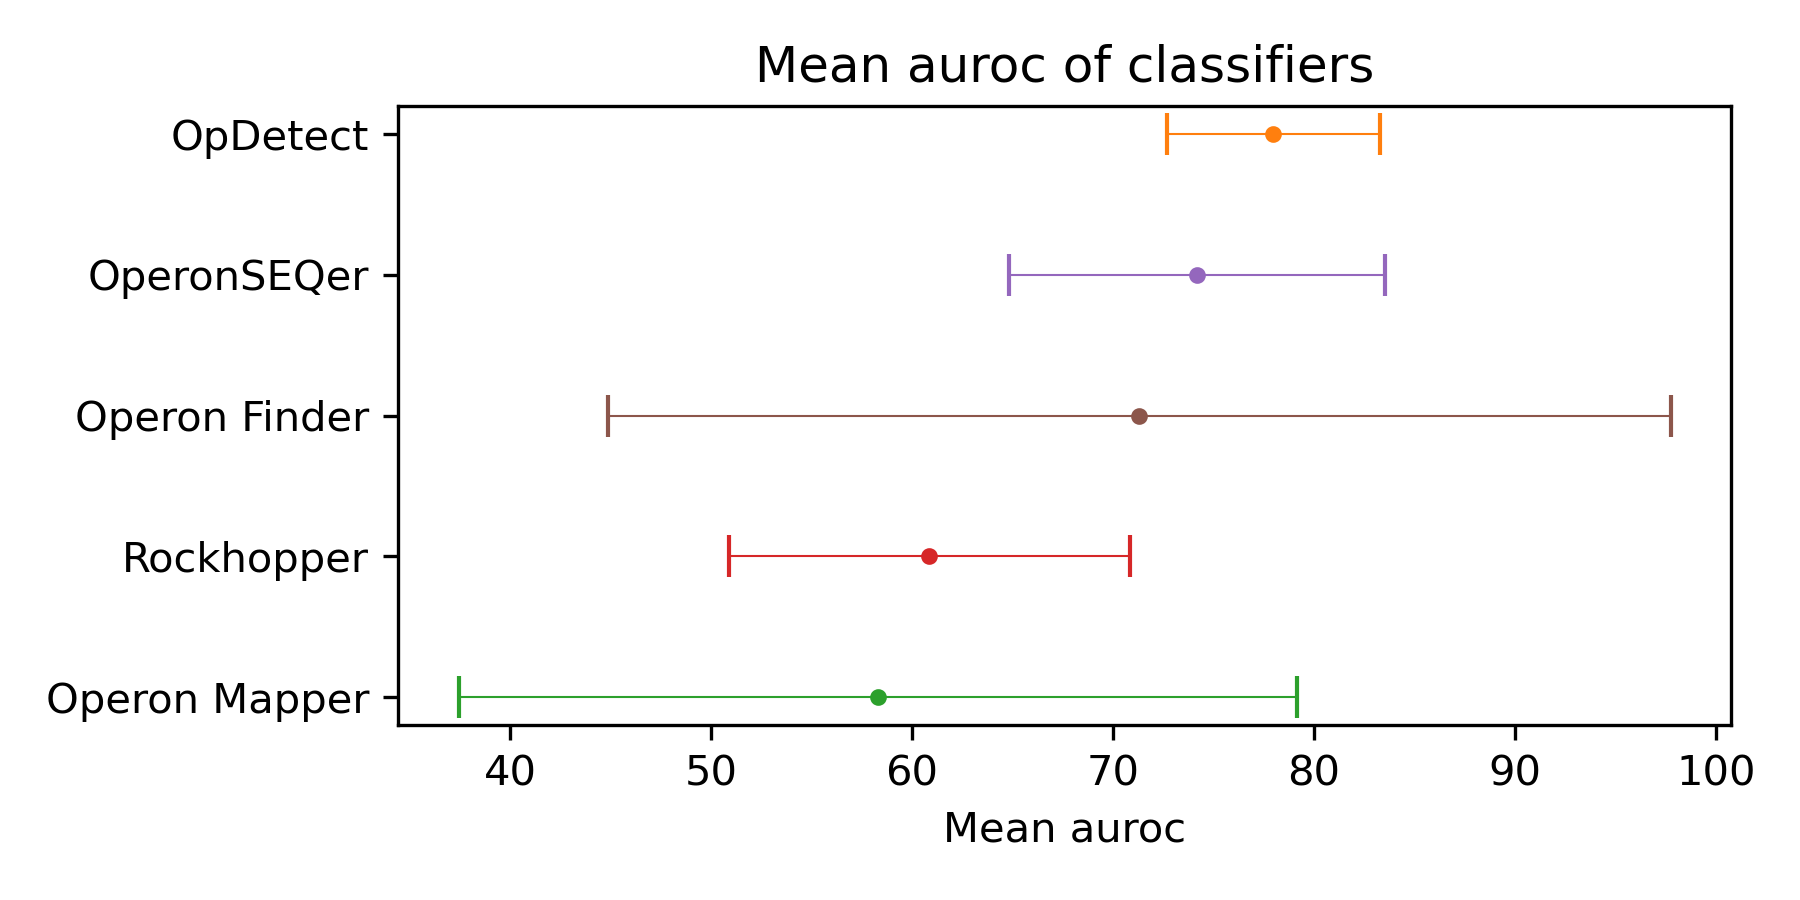
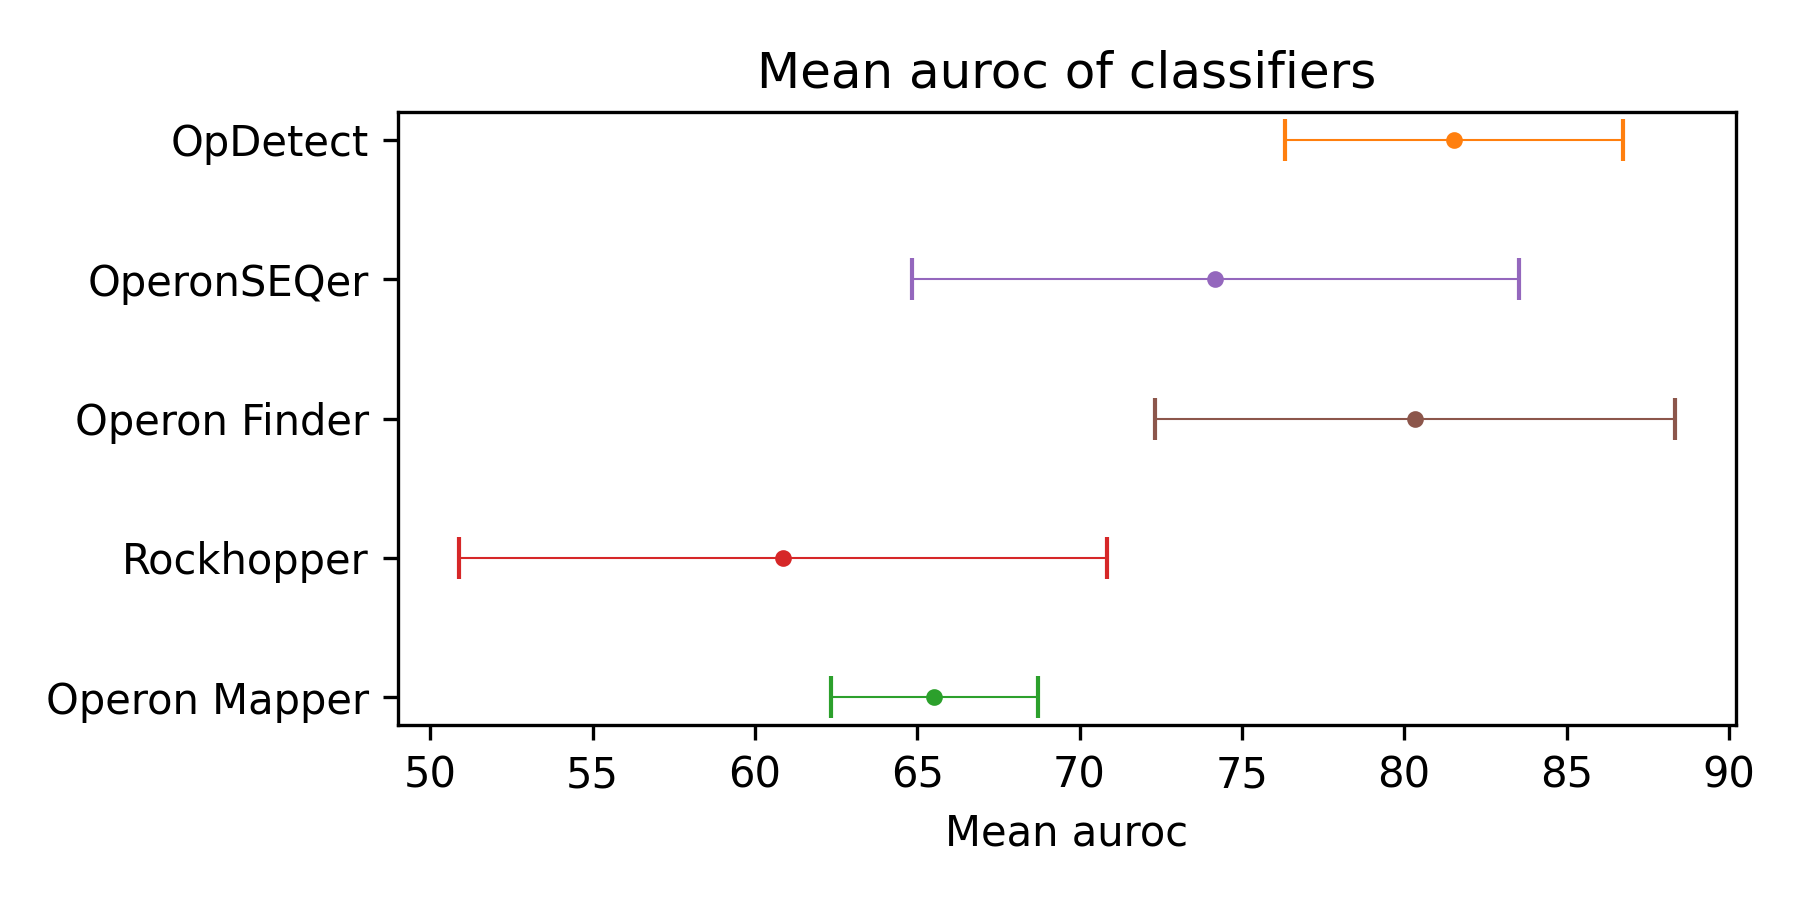
change orange 3 to autorank

diff --git a/7_compare/stat_test.py b/7_compare/stat_test.py
@@ -3,8 +3,8 @@ import numpy as np
 import pandas as pd
 from scipy.stats import friedmanchisquare, rankdata, norm, chi2
 import matplotlib.pyplot as plt
-from sklearn.metrics import roc_curve, roc_auc_score, precision_recall_curve, auc, f1_score
-from Orange.evaluation import compute_CD, graph_ranks
+from sklearn.metrics import roc_curve, roc_auc_score, f1_score
+from autorank import autorank, plot_stats
 
 # Directory containing the model outputs (replace with your actual directory)
 dir = "outputs"
@@ -20,10 +20,7 @@ def collect_outputs(metric):
         count = 0
         not_exist = False
         for txid in dataset_names:
-            path = f'{dir}/{model}_{txid}.csv'
-            if model == 'OpDetect':
-                path = f'{dir}/{model}_{txid}_{txid}.csv'
-
+            path = f'{dir}/{model}_{txid}_{txid}.csv'
             try:
                 pred = pd.read_csv(path)
             except:
@@ -47,7 +44,6 @@ def collect_outputs(metric):
 
             if metric == 'auroc':
                 # calc auroc
-                fpr, tpr, _ = roc_curve(y_true, y_pred)
                 auroc = roc_auc_score(y_true, y_pred)
                 group.append(auroc)
             elif metric == 'f1':
@@ -64,17 +60,25 @@ def collect_outputs(metric):
 
 
         outputs.append(group)
+
     outputs = np.array(outputs)
     return outputs   
 
 
 def stats(outputs, metric):
     print(f'Performing statistical tests for {metric}')
-    # Perform Friedman test to check for significant differences
-    f_stat, f_pval = friedmanchisquare(*outputs)
-    print(f'Friedman test statistic: {f_stat:.2f}')
+    #generate a critical difference diagram with Nemenyi post-hoc, default alpha=0.05
+    cd_outputs = outputs.T
+    cd_outputs = pd.DataFrame(cd_outputs, columns=model_names)
+    result = autorank(cd_outputs, alpha=0.05, verbose=False, order='descending', )
+    
+    #generate a critical difference diagram with Nemenyi post-hoc, default alpha=0.05
+    print(f'Critical difference in {metric}: {result.cd:.3f}')
+    plot_stats(result)
+    plt.savefig(f'critical_difference_{metric}.png', dpi=300)
     # 8 digits after the decimal point
-    print(f'p-value: {f_pval:.8f}')
+    print(f'p-value: {result.pvalue:.8f}')
+
 
     # Set the critical difference value based on the number of classifiers and datasets
     num_classifiers = outputs.shape[0]
@@ -86,16 +90,12 @@ def stats(outputs, metric):
     mean_ranks = np.mean(ranks, axis=1)
     print("\nRanks:")
     for i, dataset_name in enumerate(dataset_names):
-        print(txid_to_name[dataset_name])
+        print(txid_to_name[dataset_name], end='= ')
         for model in model_names:
-            print(model, ranks[model_names.index(model)][i], end=', ')
-    print()
+            print(model,': ', ranks[model_names.index(model)][i], end=', ')
+        print()
 
-    #generate a critical difference diagram with Nemenyi post-hoc, default alpha=0.05
-    cd = compute_CD(mean_ranks, num_datasets) #tested on 7 datasets
-    print(f'Critical difference in {metric}: {cd:.3f}')
-    graph_ranks(mean_ranks, model_names, cd=cd, width=6, reverse=True, textspace=1.5)
-    plt.savefig(f'critical_difference_{metric}.png', dpi=300)
+    
 
     # The dot represents the mean rank and bars represent standard error. Lower ranks indicate better performance, horizontal
     fig, ax = plt.subplots(figsize=(6, 3))
